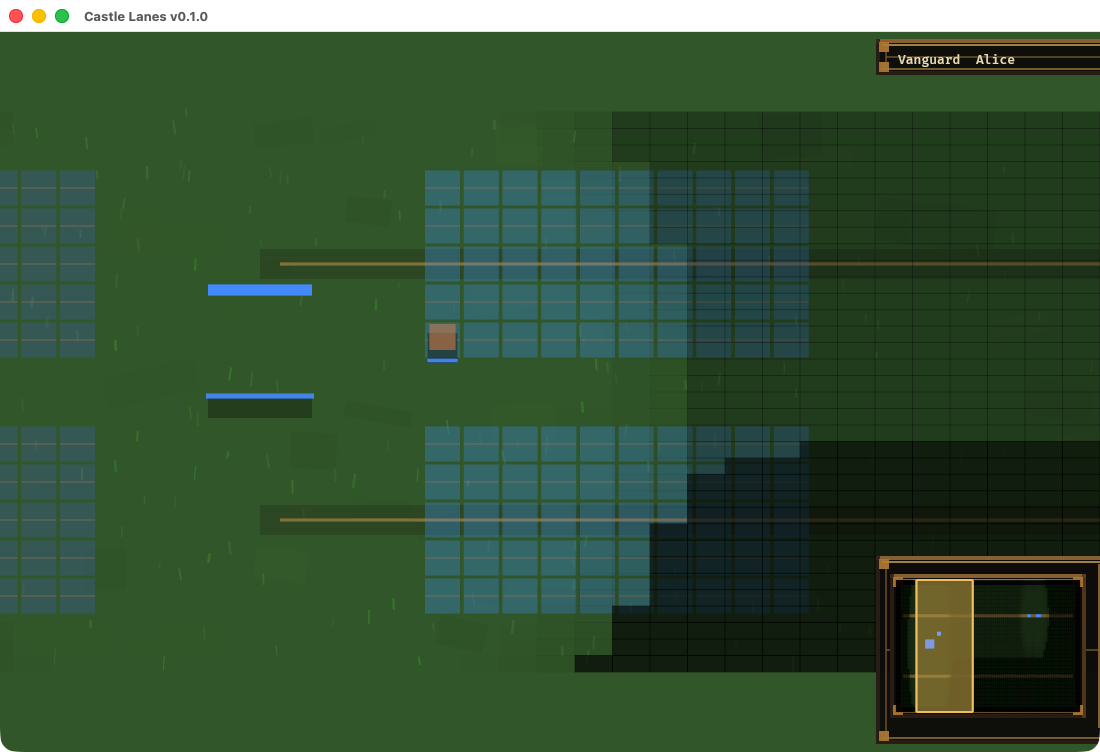
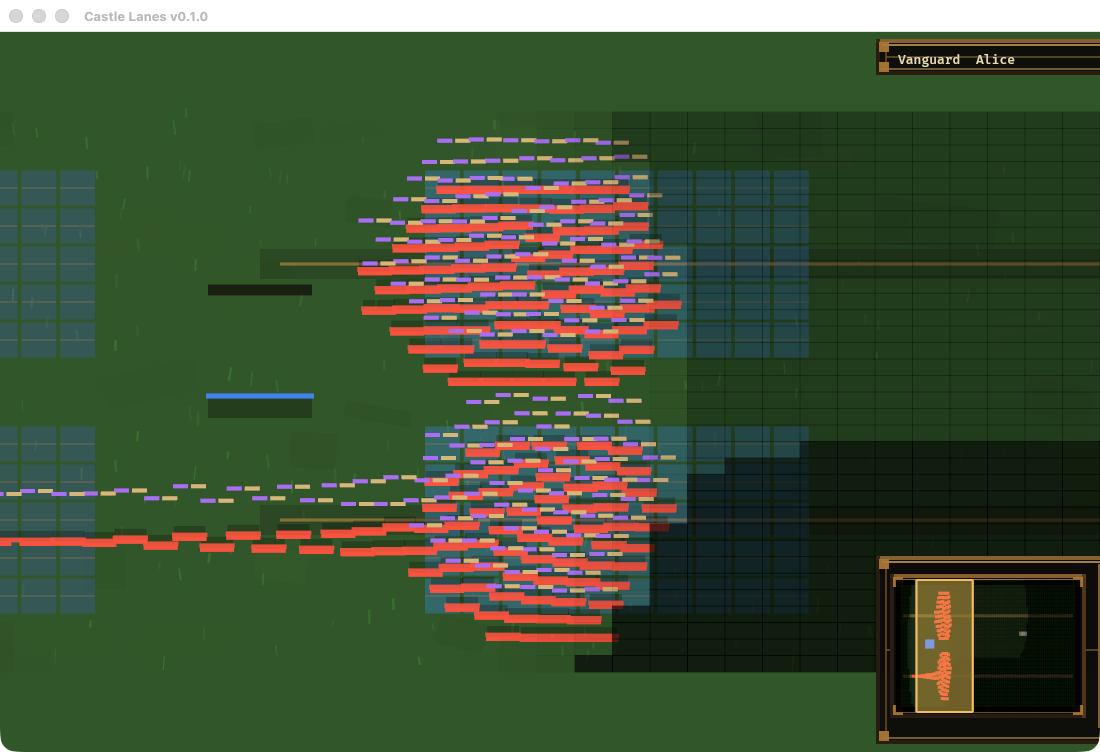
CRITICAL fix: Bevy asset path resolved against exe dir - art never loaded
Bevy 0.18 resolves relative asset paths against the EXECUTABLE directory
(target/debug/assets), not the working directory. Every image asset in
the game - unit sprites, building icons, fonts - silently failed to load
since the project moved to this layout: units rendered as bare colored
health bars/stripes, buildings as plain rects, no icons anywhere.

- AssetPlugin file_path now set to the absolute repo assets/ dir
- bevy_log feature enabled (was missing from the default-features=false
  list, which is why every asset error was invisible; found via the
  now-visible 'Path not found' ERRORs)
- font path case fixed (MedievalSharp.ttf on the case-sensitive volume)

Verified visually: castle icons, unit sprites (with generated frame
animation), health bars, and damage numbers all render in a live
client-vs-bot match.

diff --git a/src/bin/client/main.rs b/src/bin/client/main.rs
@@ -426,16 +426,31 @@ fn main() {
     let socket = UdpSocket::bind("0.0.0.0:0").expect("bind client udp socket");
     socket.set_nonblocking(true).expect("set nonblocking");
 
+    // Bevy 0.18 resolves the asset folder relative to the executable, which
+    // breaks `target/debug` layouts: prefer the repo-relative assets/ dir.
+    // Bevy 0.18 resolves RELATIVE asset paths against the executable dir
+    // (target/debug), so the override must be absolute.
+    let asset_file_path = std::env::current_dir()
+        .map(|cwd| cwd.join("assets").to_string_lossy().to_string())
+        .unwrap_or_else(|_| "assets".to_string());
+
     App::new()
-        .add_plugins(DefaultPlugins.set(WindowPlugin {
-            primary_window: Some(Window {
+        .add_plugins(
+            DefaultPlugins
+                .set(WindowPlugin {
+                    primary_window: Some(Window {
                 title: format!("Castle Lanes v{}", castle_lanes::VERSION),
                 resolution: WindowResolution::new(1100, 720),
                 resizable: true,
                 ..default()
             }),
             ..default()
-        }))
+                })
+                .set(AssetPlugin {
+                    file_path: asset_file_path,
+                    ..default()
+                }),
+        )
         .insert_resource(ClearColor(Color::srgb(0.07, 0.08, 0.09)))
         .insert_resource(ClientNet {
             socket,
@@ -646,7 +661,7 @@ fn setup(mut commands: Commands, asset_server: Res<AssetServer>) {
     spawn_grass_background(&mut commands);
     spawn_static_board(&mut commands, None);
     let fonts = FontAssets {
-        display: asset_server.load("fonts/medievalsharp.ttf"),
+        display: asset_server.load("fonts/MedievalSharp.ttf"),
     };
     commands.insert_resource(fonts);
 
